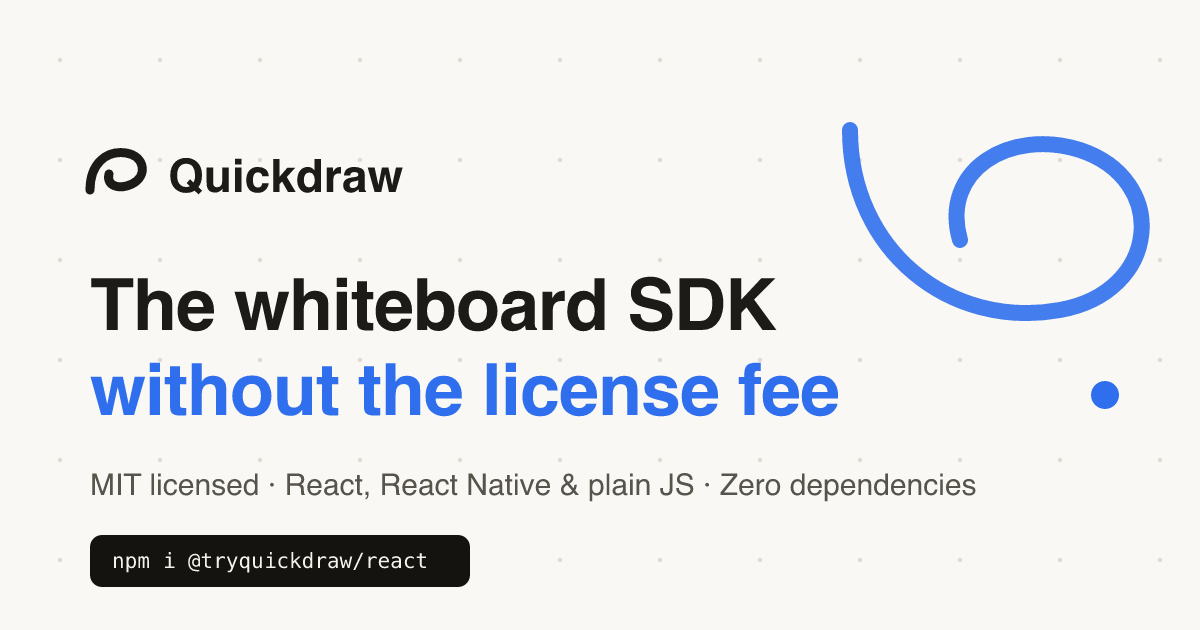
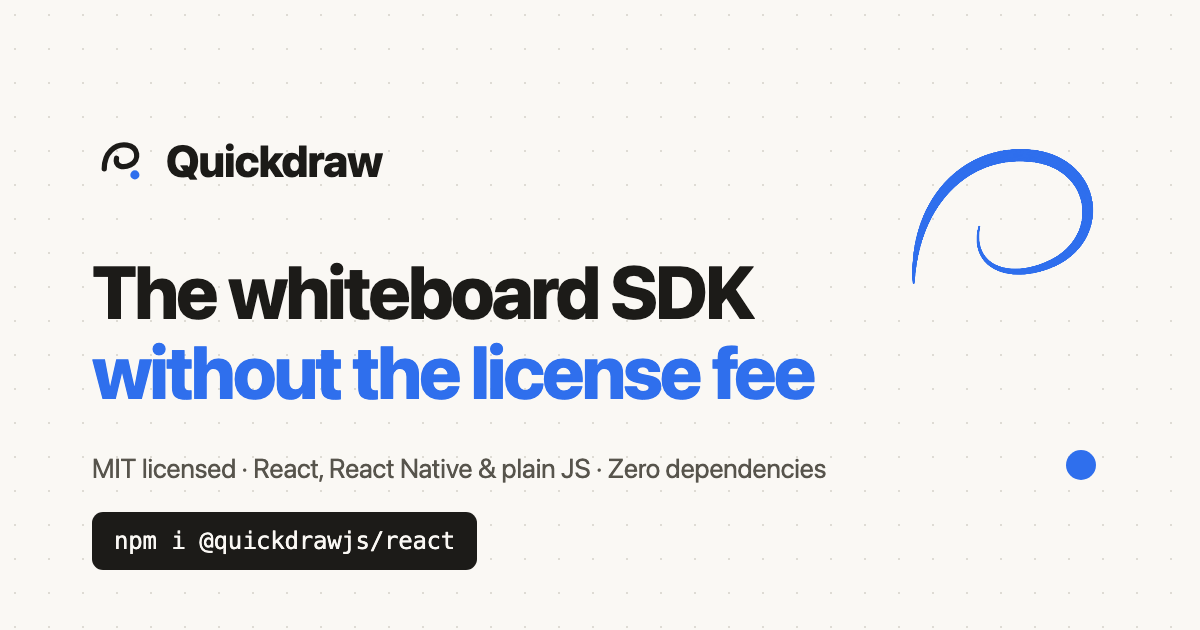
Unify the brand mark and fix the OG card's install command (#12)
The favicon and the in-product marks had drifted into two different
spirals, and the header/watermark dot was filled with currentColor so it
disappeared into the wordmark instead of reading as the accent.

- Adopt the favicon's geometry as the single mark everywhere: the site
  header, the hosted app, the docs header and the SDK's watermark badge
- Dot is now the brand accent (#2f6fed) rather than currentColor
- og.png: the install line read `npm i @tryquickdraw/react`, a scope that
  does not exist — anyone copying it from a link preview got a 404. Now
  `npm i @quickdrawjs/react`
- og.png: the decorative squiggle was an unrelated shape; it is now the
  brand mark's own curve, drawn with a velocity taper so it reads as the
  product's pressure ink
- Add apps/website/scripts/og-source.html so the card is regenerable
  instead of an orphan binary

diff --git a/apps/website/scripts/og-source.html b/apps/website/scripts/og-source.html
@@ -1,0 +1,109 @@
+<!doctype html>
+<html lang="en">
+<head>
+<meta charset="utf-8">
+<title>Quickdraw OG source — 1200×630</title>
+<!--
+  Source for public/og.png. Open this file, screenshot the 1200×630 .card,
+  and save as apps/website/public/og.png.
+  Palette is taken from Base.astro: --paper #faf8f4, --ink #1c1b18,
+  --ink-soft #57544c, --accent #2f6fed.
+  The right-hand flourish is the brand mark's own spiral, drawn on canvas
+  with a velocity-style taper so it reads as the product's pressure ink.
+-->
+<style>
+  html,body{margin:0;padding:0;background:#e9e7e2}
+  .card{
+    position:relative; width:1200px; height:630px; overflow:hidden;
+    background:#faf8f4;
+    background-image:radial-gradient(circle, #dedbd4 1.35px, transparent 1.45px);
+    background-size:34px 34px; background-position:-2px -2px;
+    font-family:-apple-system,BlinkMacSystemFont,"Segoe UI",system-ui,sans-serif;
+    color:#1c1b18;
+  }
+  .brand{position:absolute; left:92px; top:132px; display:flex; align-items:center; gap:18px}
+  .brand svg{width:56px; height:56px; display:block}
+  .brand span{font-size:44px; font-weight:800; letter-spacing:-.022em}
+
+  h1{
+    position:absolute; left:92px; top:252px; margin:0; max-width:760px;
+    font-size:74px; line-height:1.08; font-weight:800; letter-spacing:-.035em;
+  }
+  h1 .blue{color:#2f6fed; display:block}
+
+  .sub{
+    position:absolute; left:92px; top:452px; margin:0;
+    font-size:27px; color:#57544c; letter-spacing:-.012em;
+  }
+  .pill{
+    position:absolute; left:92px; top:512px;
+    background:#1c1b18; color:#faf8f4; border-radius:11px;
+    padding:15px 22px; font-size:24px; letter-spacing:-.01em;
+    font-family:ui-monospace,SFMono-Regular,"SF Mono",Menlo,Consolas,monospace;
+  }
+  /* the flourish lives in the free right-hand column, clear of the headline */
+  canvas.ink{position:absolute; right:52px; top:86px; width:300px; height:300px}
+  .accent-dot{
+    position:absolute; right:104px; bottom:150px;
+    width:30px; height:30px; border-radius:50%; background:#2f6fed;
+  }
+</style>
+</head>
+<body>
+<div class="card">
+  <div class="brand">
+    <!-- the standard mark: identical geometry to favicon.svg -->
+    <svg viewBox="0 0 32 32" fill="none">
+      <path d="M7 21 C7 12, 13 6.5, 20 7.5 C26.5 8.5, 27.5 16, 22 18.8 C17.5 21, 13 19.5, 14 15"
+            stroke="#1c1b18" stroke-width="3" stroke-linecap="round" fill="none"/>
+      <circle cx="24.5" cy="24.5" r="2.6" fill="#2f6fed"/>
+    </svg>
+    <span>Quickdraw</span>
+  </div>
+
+  <h1>The whiteboard SDK<span class="blue">without the license fee</span></h1>
+  <p class="sub">MIT licensed · React, React Native &amp; plain JS · Zero dependencies</p>
+  <div class="pill">npm i @quickdrawjs/react</div>
+
+  <canvas class="ink" width="840" height="840"></canvas>
+  <div class="accent-dot"></div>
+</div>
+
+<script>
+// Draw the brand mark's spiral large, with a pressure-style taper:
+// thin on entry, full-bodied through the curve, tapering out at the tail —
+// the same behaviour the SDK's pen produces.
+const cv = document.querySelector('canvas.ink');
+const ctx = cv.getContext('2d');
+const S = 840 / 32;                       // scale the 32×32 mark up to the canvas
+const P = new Path2D();
+
+// Sample the mark's own path so the flourish and the logo are the same curve.
+const svgNS = 'http://www.w3.org/2000/svg';
+const tmp = document.createElementNS(svgNS, 'svg');
+const p = document.createElementNS(svgNS, 'path');
+p.setAttribute('d', 'M7 21 C7 12, 13 6.5, 20 7.5 C26.5 8.5, 27.5 16, 22 18.8 C17.5 21, 13 19.5, 14 15');
+tmp.appendChild(p); document.body.appendChild(tmp);
+const total = p.getTotalLength();
+
+const STEPS = 420;
+ctx.lineCap = 'round';
+ctx.strokeStyle = '#2f6fed';
+for (let i = 0; i < STEPS; i++) {
+  const t0 = i / STEPS, t1 = (i + 1) / STEPS;
+  const a = p.getPointAtLength(t0 * total);
+  const b = p.getPointAtLength(t1 * total);
+  // taper profile: ease in from 25% width, peak mid-stroke, ease out to 15%
+  const t = (t0 + t1) / 2;
+  const env = Math.sin(Math.PI * Math.pow(t, 0.82));
+  const w = (0.16 + 0.84 * env) * 3.15 * S * 0.42;
+  ctx.lineWidth = Math.max(w, 1.2);
+  ctx.beginPath();
+  ctx.moveTo(a.x * S, a.y * S);
+  ctx.lineTo(b.x * S, b.y * S);
+  ctx.stroke();
+}
+tmp.remove();
+</script>
+</body>
+</html>

diff --git a/packages/core/src/index.js b/packages/core/src/index.js
@@ -27,8 +27,8 @@ export function buildWatermark(editor) {
   a.setAttribute('aria-label', 'Made with Quickdraw')
   a.innerHTML =
     `<svg viewBox="0 0 32 32" fill="none" aria-hidden="true">` +
-    `<path d="M6 22 C6 12, 12 6, 20 7 C27 8, 28 16, 22 19 C17 21.5, 12 20, 13 15" stroke="currentColor" stroke-width="3.2" stroke-linecap="round" fill="none"/>` +
-    `<circle cx="25.5" cy="25.5" r="3" fill="currentColor"/>` +
+    `<path d="M7 21 C7 12, 13 6.5, 20 7.5 C26.5 8.5, 27.5 16, 22 18.8 C17.5 21, 13 19.5, 14 15" stroke="currentColor" stroke-width="3" stroke-linecap="round" fill="none"/>` +
+    `<circle cx="24.5" cy="24.5" r="2.6" fill="#2f6fed"/>` +
     `</svg><span>Quickdraw</span>`
   a.addEventListener('pointerdown', (e) => e.stopPropagation())
   editor.container.appendChild(a)

diff --git a/apps/app/index.html b/apps/app/index.html
@@ -113,8 +113,8 @@
   <div id="board"></div>
   <a class="qd-app-logo" id="logo" href="https://tryquickdraw.com" rel="noopener" aria-label="Quickdraw home">
     <svg viewBox="0 0 32 32" fill="none" aria-hidden="true">
-      <path d="M6 22 C6 12, 12 6, 20 7 C27 8, 28 16, 22 19 C17 21.5, 12 20, 13 15" stroke="currentColor" stroke-width="3.2" stroke-linecap="round" fill="none"/>
-      <circle cx="25.5" cy="25.5" r="3" fill="currentColor"/>
+      <path d="M7 21 C7 12, 13 6.5, 20 7.5 C26.5 8.5, 27.5 16, 22 18.8 C17.5 21, 13 19.5, 14 15" stroke="currentColor" stroke-width="3" stroke-linecap="round" fill="none"/>
+      <circle cx="24.5" cy="24.5" r="2.6" fill="#2f6fed"/>
     </svg>
     Quickdraw
   </a>

diff --git a/apps/docs/app/layout.jsx b/apps/docs/app/layout.jsx
@@ -28,13 +28,13 @@ const logo = (
   >
     <svg width="22" height="22" viewBox="0 0 32 32" fill="none" aria-hidden="true">
       <path
-        d="M6 22 C6 12, 12 6, 20 7 C27 8, 28 16, 22 19 C17 21.5, 12 20, 13 15"
+        d="M7 21 C7 12, 13 6.5, 20 7.5 C26.5 8.5, 27.5 16, 22 18.8 C17.5 21, 13 19.5, 14 15"
         stroke="currentColor"
-        strokeWidth="3.2"
+        strokeWidth="3"
         strokeLinecap="round"
         fill="none"
       />
-      <circle cx="25.5" cy="25.5" r="3" fill="currentColor" />
+      <circle cx="24.5" cy="24.5" r="2.6" fill="#2f6fed" />
     </svg>
     Quickdraw
     <span style={{ fontWeight: 500, opacity: 0.55 }}>Docs</span>
